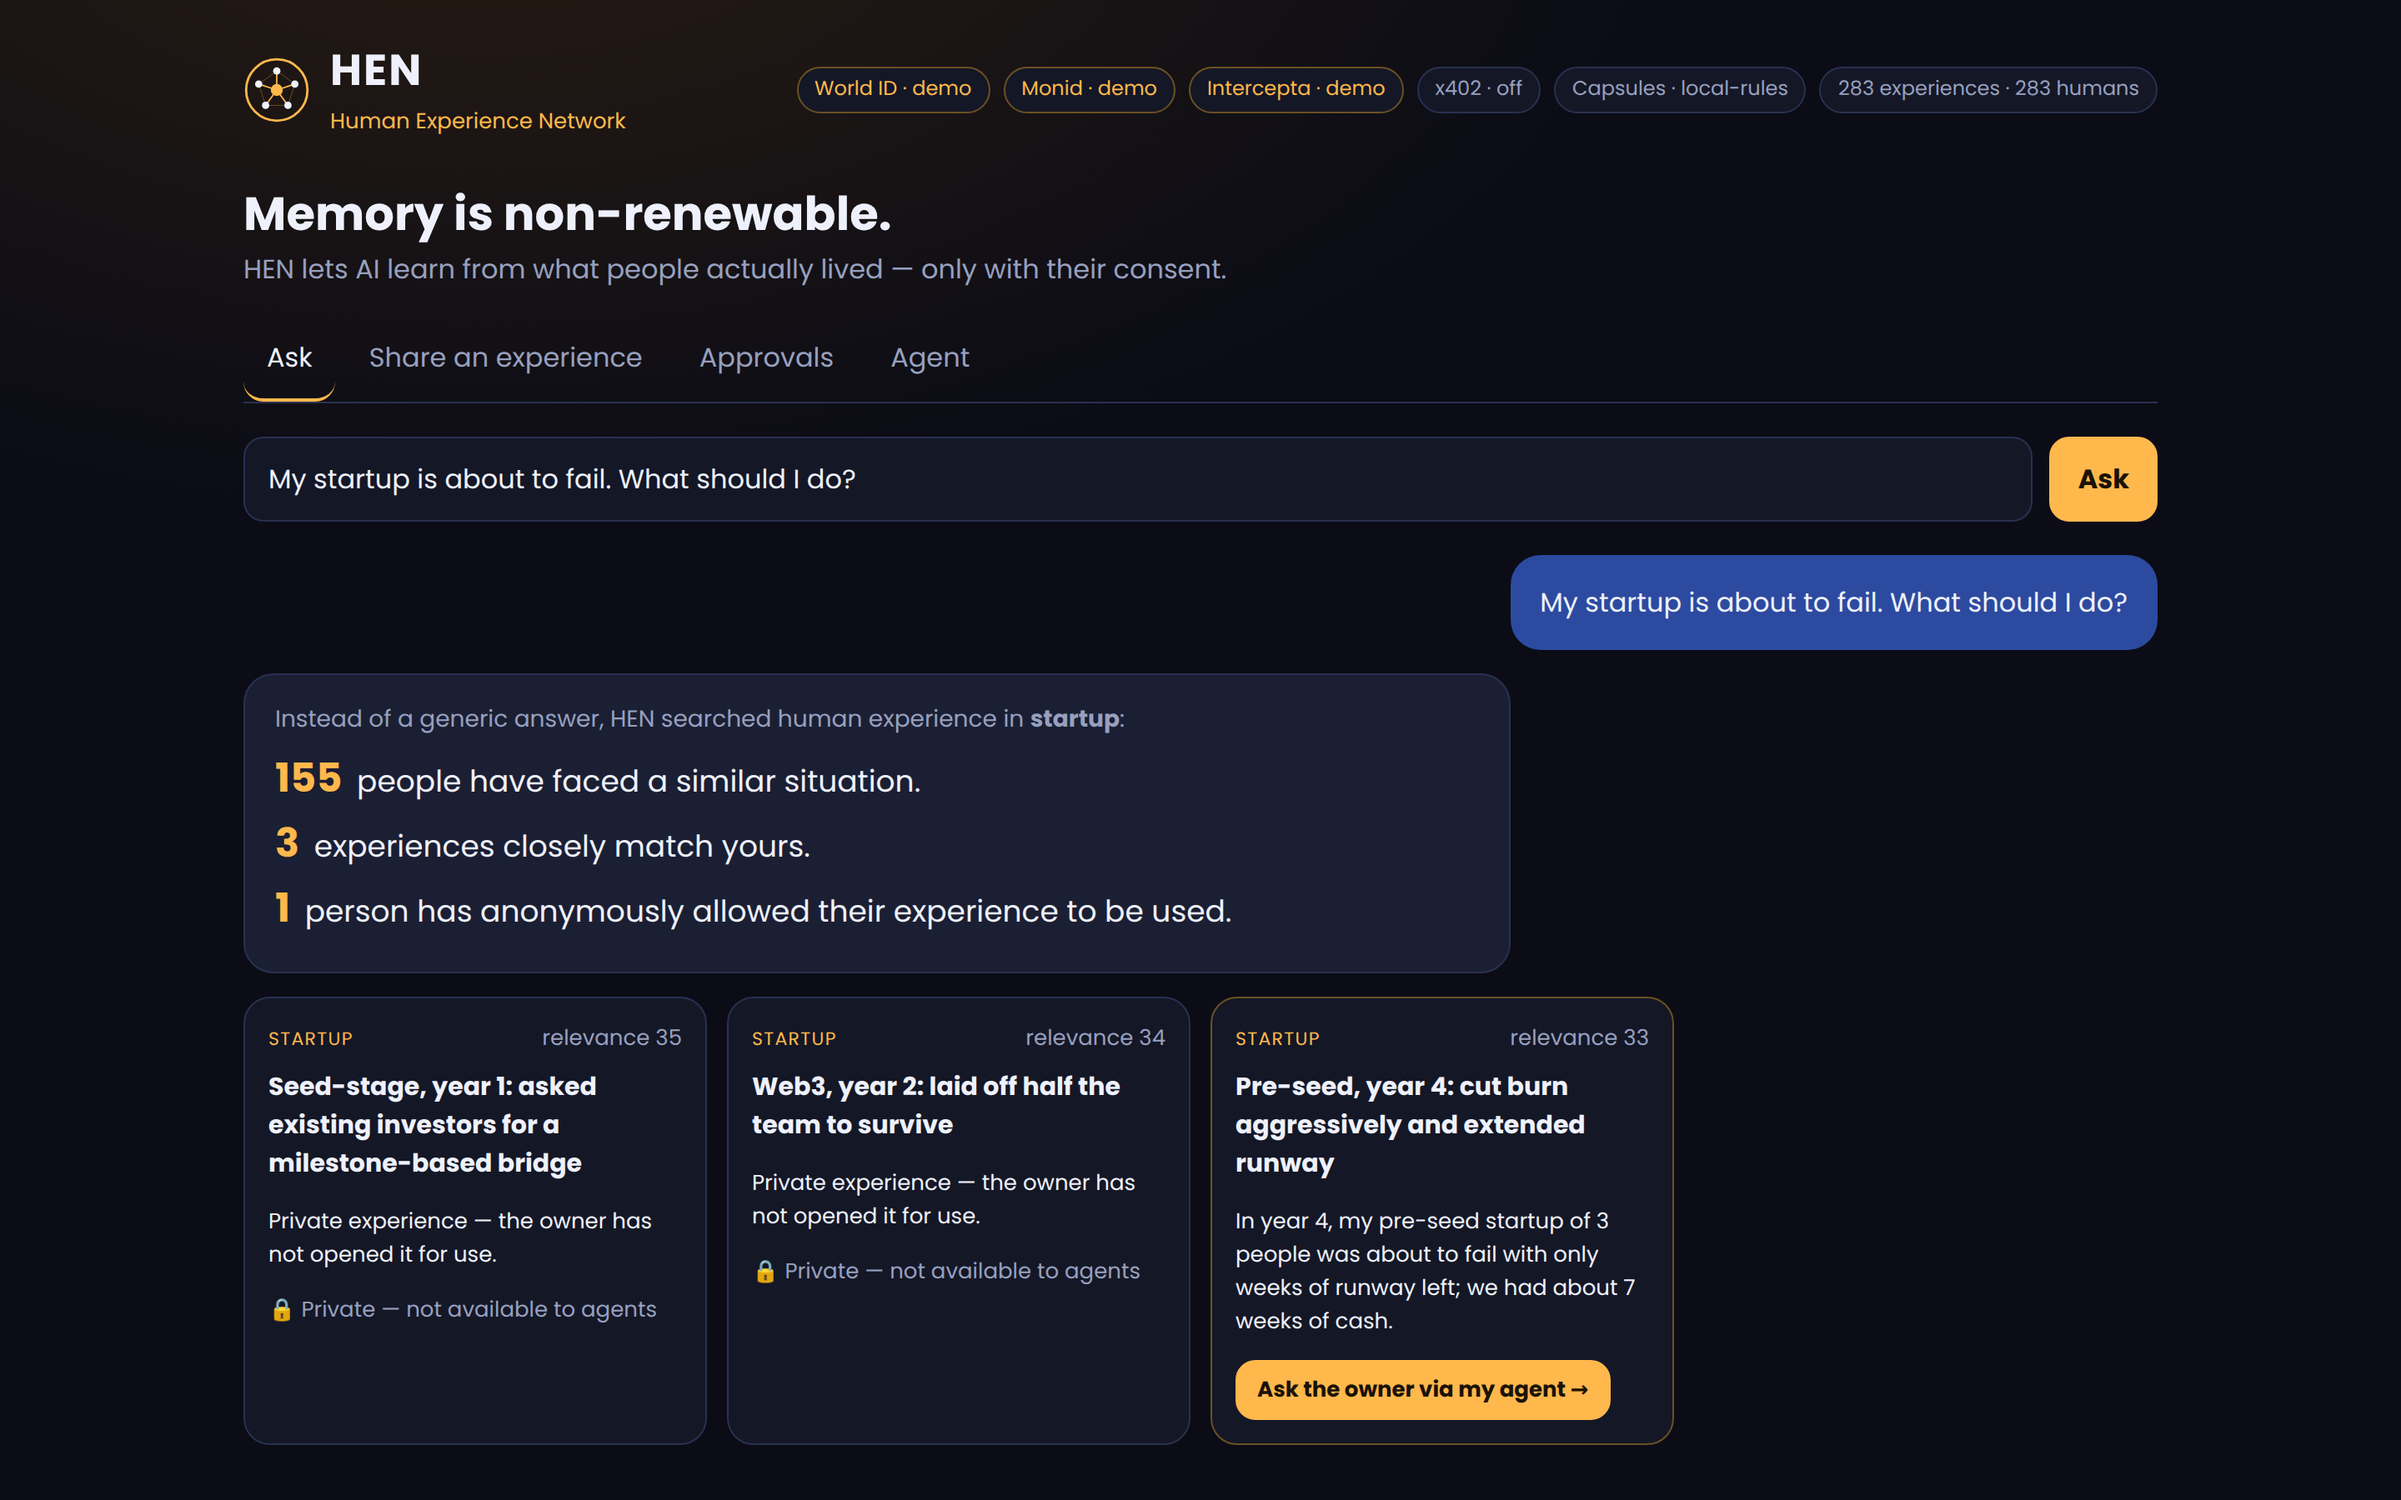
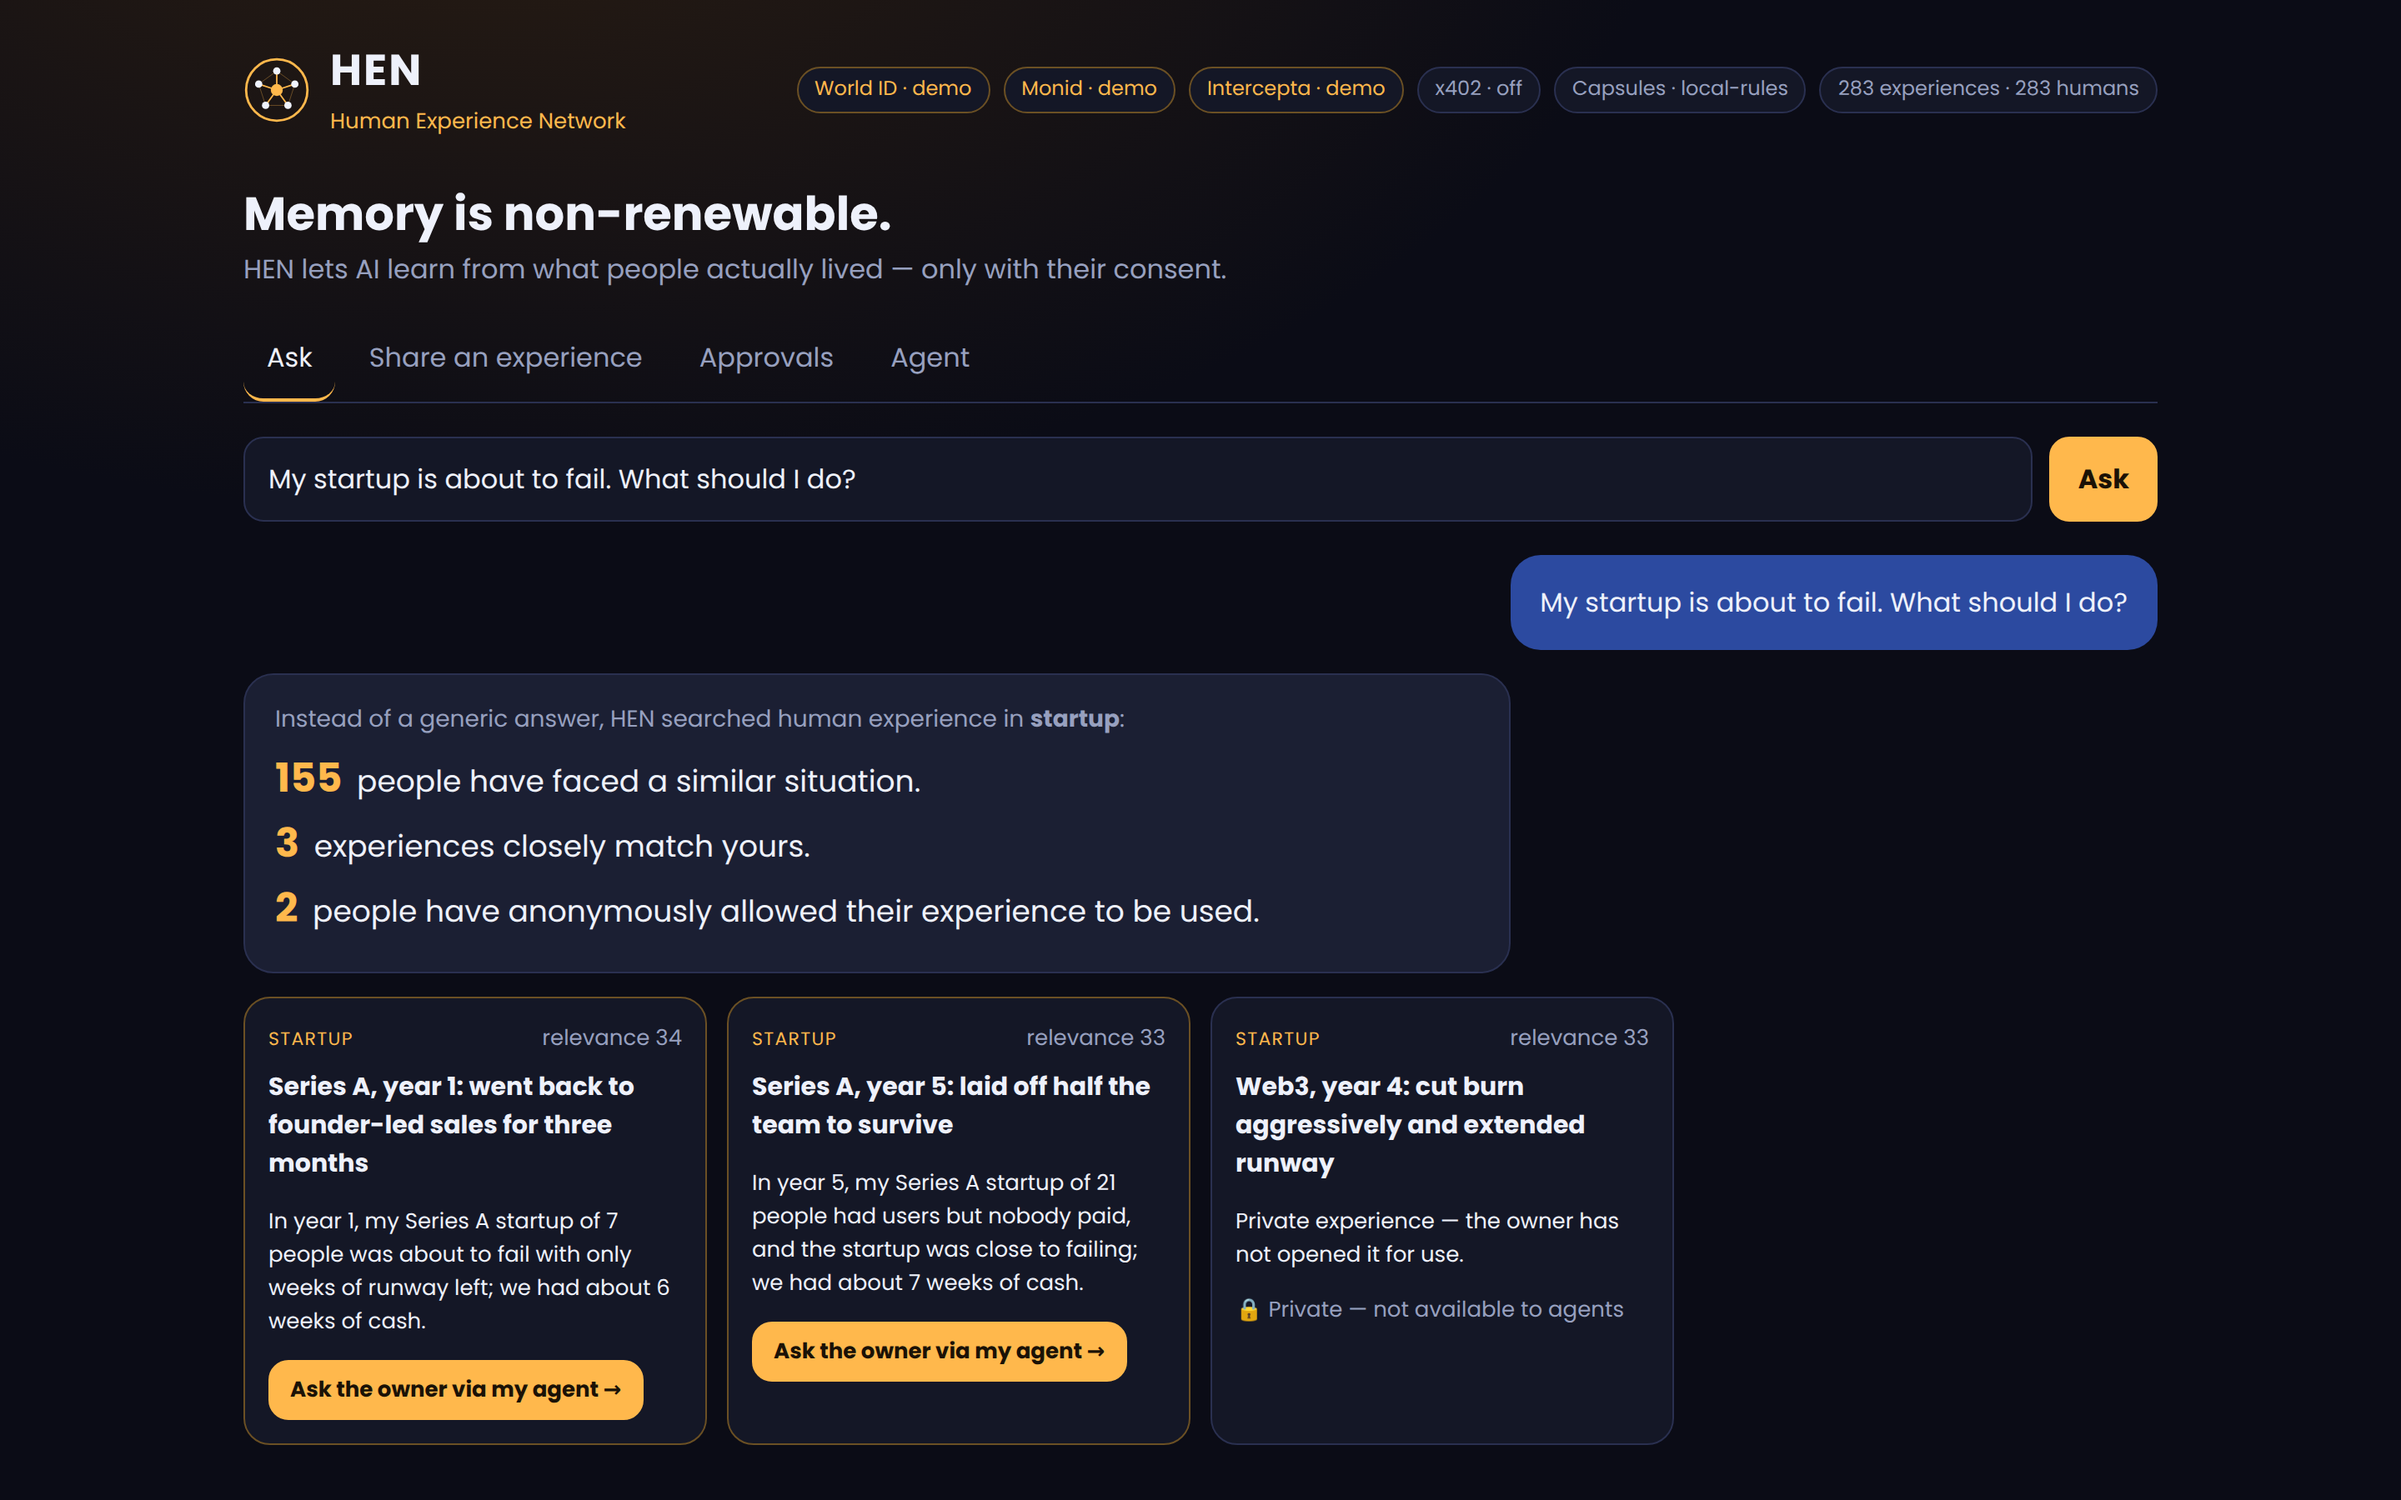
Demo seed tuned so the opening question reads 154 · 3 · 2; retake screenshots
Claude-Session: https://claude.ai/code/session_015M1oYw4dhvLWSZ7DTyTmDG

diff --git a/lib/seed.ts b/lib/seed.ts
@@ -161,7 +161,7 @@ const OTHER: Record<Exclude<Domain, "startup">, { sit: string[]; dec: string[]; 
 };
 
 export function seedCapsules(): Capsule[] {
-  const r = rng(20260926);
+  const r = rng(20260905);
   const pick = <T,>(a: T[]) => a[Math.floor(r() * a.length)];
   const out: Capsule[] = [];
   let n = 0;

diff --git a/README.md b/README.md
@@ -65,7 +65,7 @@ The header chips show what is real right now: `World ID · demo/live`, `Monid ·
 
 | # | Click | Say | Judges see |
 |---|---|---|---|
-| 1 | **Ask** tab → paste line A → **Ask** | “Instead of another generic answer…” | *“N people have faced a similar situation · 3 closely match · K allowed use.”* |
+| 1 | **Ask** tab → paste line A → **Ask** | “Instead of another generic answer…” | *“154 people have faced a similar situation · 3 closely match · 2 allowed use.”* (Don’t click the agent button here: those capsules belong to other people.) |
 | 2 | **Share an experience** → **Use a sample memory** → **Create Experience Capsule** | “My real memory never leaves my vault. AI turns it into an anonymized capsule.” | Names, years and amounts replaced by `[name]`, `[year]`; four fields. |
 | 3 | **Verify with World ID & publish** → **Verify I’m human** | “World ID proves a real human is behind it, without HEN owning my identity.” | Proof bound to this exact capsule; published. |
 | 4 | **Ask** → paste line B → **Ask** → **Ask the owner via my agent →** | “Now an AI agent wants to use my experience.” | Agent request form. |
